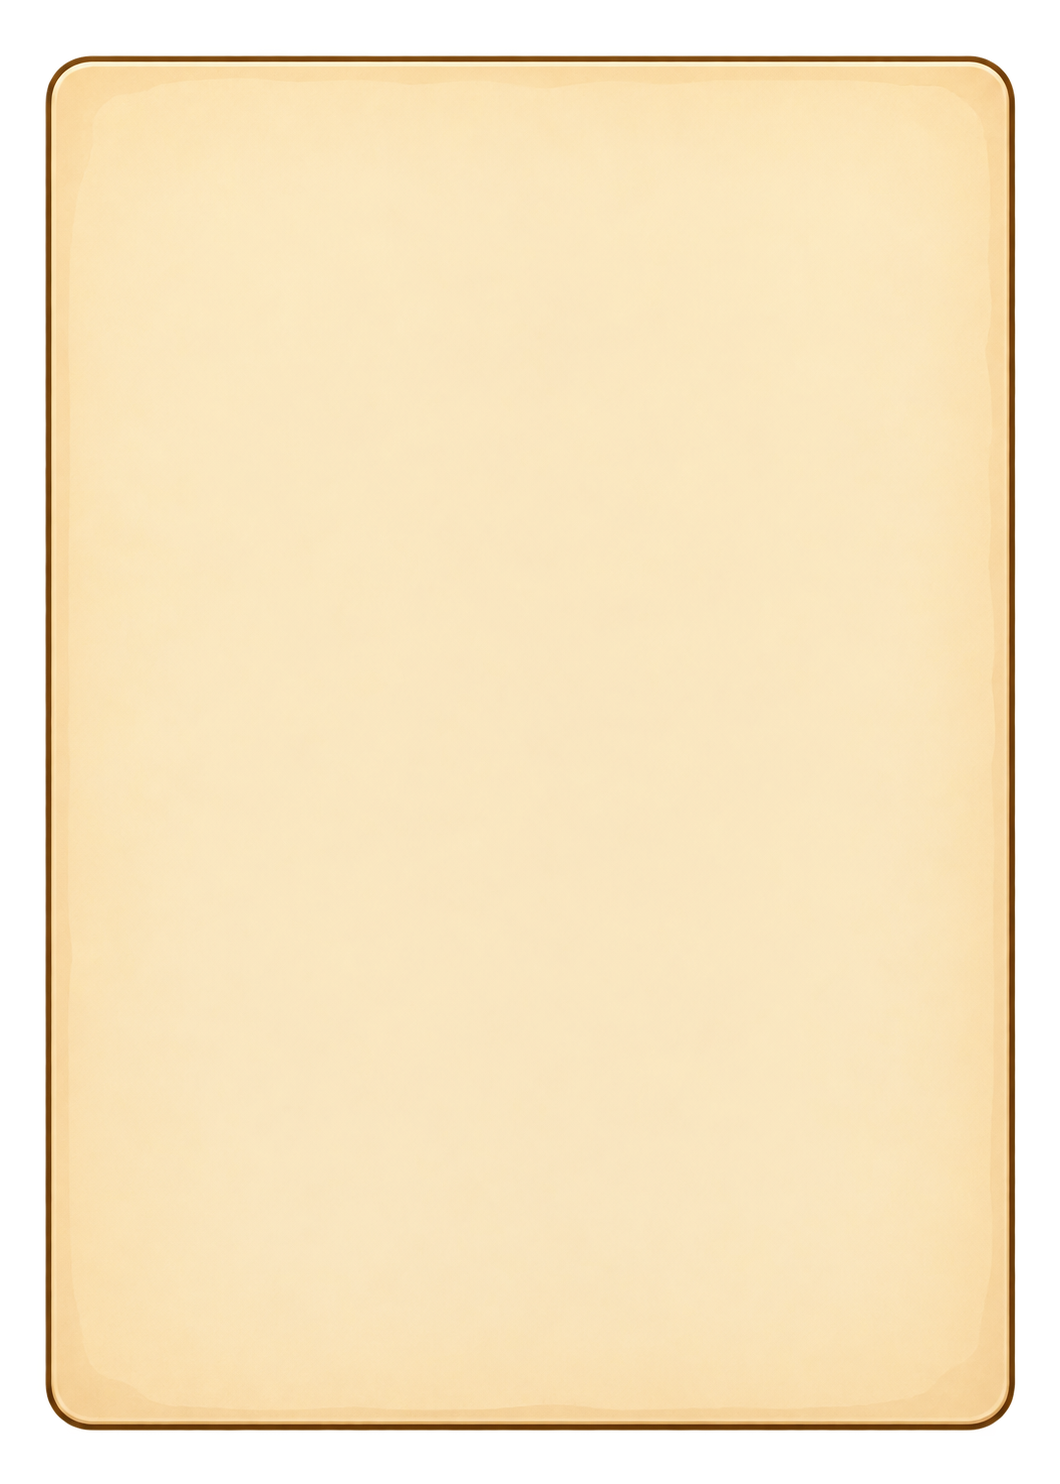
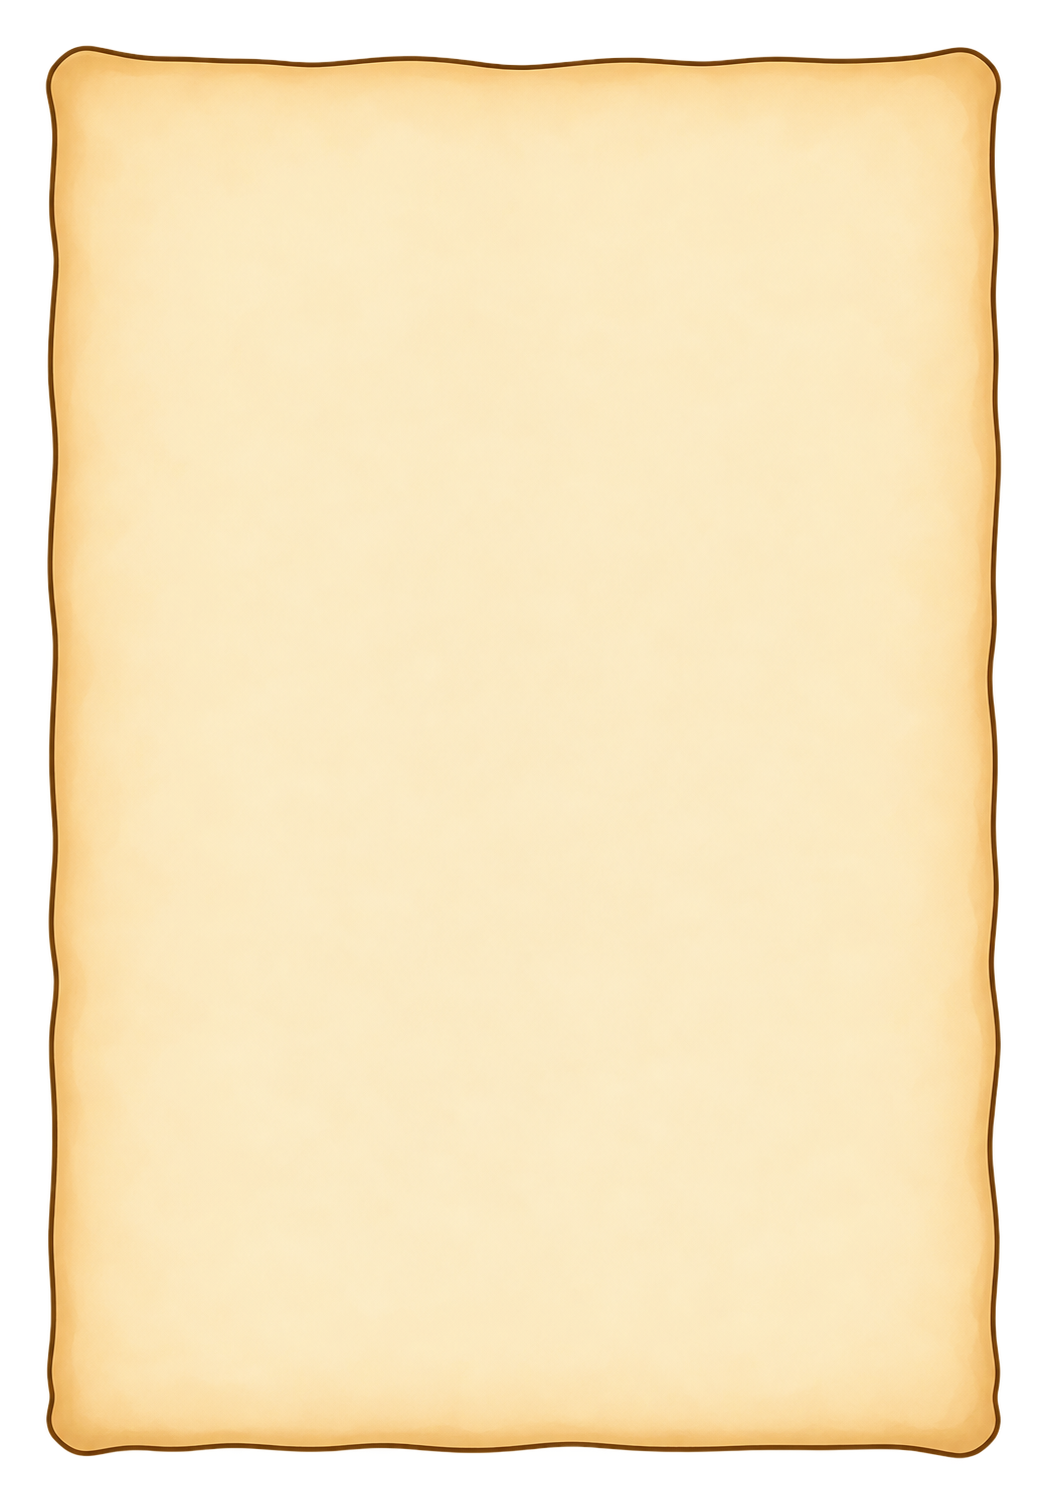
art(ui): B2 — the research book's page and loose sheet, with the mockups' edges

Changed region(s): [[0.0306, 0.031, 0.979, 0.9919]]

diff --git a/src/ui/styles/screens/research.css b/src/ui/styles/screens/research.css
@@ -3,7 +3,7 @@
  *
  * Built from four reusable pieces, so a new book or a new state costs no new
  * art: the PAGE (assets/rb-page.png, nine-sliced; the stack behind it is the
- * same page twice, turned a few degrees), the BOOKMARK (assets/rb-ribbon.png,
+ * same page twice, turned a few degrees), the loose SHEET (assets/rb-sheet.png), the BOOKMARK (assets/rb-ribbon.png,
  * one neutral ribbon tinted per book through `--tome`), the PIN
  * (assets/rb-pin.png), and the kit's own stat tile, progress bar and buttons.
  * Every size that has to agree with the tree's geometry is set inline from
@@ -44,7 +44,7 @@
   inset: 0;
   z-index: -1;
   border: 14px solid transparent;
-  border-image: url('../../assets/rb-page.png') 30 fill / 14px stretch;
+  border-image: url('../../assets/rb-page.png') 56 fill / 26px stretch;
   filter: brightness(0.93);
 }
 .rb-stack::before { transform: rotate(-1.6deg) translate(-3px, 4px); }
@@ -58,7 +58,7 @@
   overscroll-behavior: contain;
   scrollbar-width: none;
   border: 14px solid transparent;
-  border-image: url('../../assets/rb-page.png') 30 fill / 14px stretch;
+  border-image: url('../../assets/rb-page.png') 56 fill / 26px stretch;
   padding: 18px 4px 0;
   margin: 0;
   color: var(--ink);
@@ -255,9 +255,11 @@
   max-height: 100%;
   overflow-y: auto;
   scrollbar-width: none;
+  /* Its own loose leaf: deckled edges and a curled lower-right corner, sliced
+     wide so the curl is never stretched. */
   border: 14px solid transparent;
-  border-image: url('../../assets/rb-page.png') 30 fill / 14px stretch;
-  padding: 16px 14px 14px;
+  border-image: url('../../assets/rb-sheet.png') 96 fill / 68px stretch;
+  padding: 18px 14px 26px;
   color: var(--ink);
   filter: drop-shadow(0 6px 10px rgba(20, 10, 4, 0.35));
 }

diff --git a/Docs/art/ui/CONVERSATION.md b/Docs/art/ui/CONVERSATION.md
@@ -822,3 +822,19 @@ for.
   correction out entirely and came back transparent anyway.
 - **What to know:** a ribbon masked at `100% auto` from its bottom keeps its
   swallowtail at any height; stretched to `100% 100%` it distorts.
+
+## B2 — the research book's page and loose sheet, with character
+
+- **Date:** 2026-09-29
+- **Conversation:** a new one (`6abbfd0e-ae5c-83eb-bbae-f1027593b113`) — the
+  two pieces asked for separately; asked together, the model failed twice.
+- **Why:** B1's page was nearly rectangular, flatter than M43 and M46. Both
+  were re-asked with the mockups' edges: wavy worn rims on the page, deckled
+  edges and a curled lower-right corner on the loose sheet.
+- **Files:** `sheets/rb-page-raw.png` (1046×1504) → `src/ui/assets/rb-page.png`
+  (alpha box, halved, 478×706; nine-sliced at 56, drawn 26px);
+  `sheets/rb-sheet-raw.png` (1049×1499) → `rb-sheet.png` (498×700; sliced at
+  96, drawn 68px, so the curl sits whole in its corner slice).
+- **What to know:** both came back true alpha without asking for a correction.
+  The sheet's wide corner slices are what keep the curl from stretching when a
+  locked technology's sheet is short.
